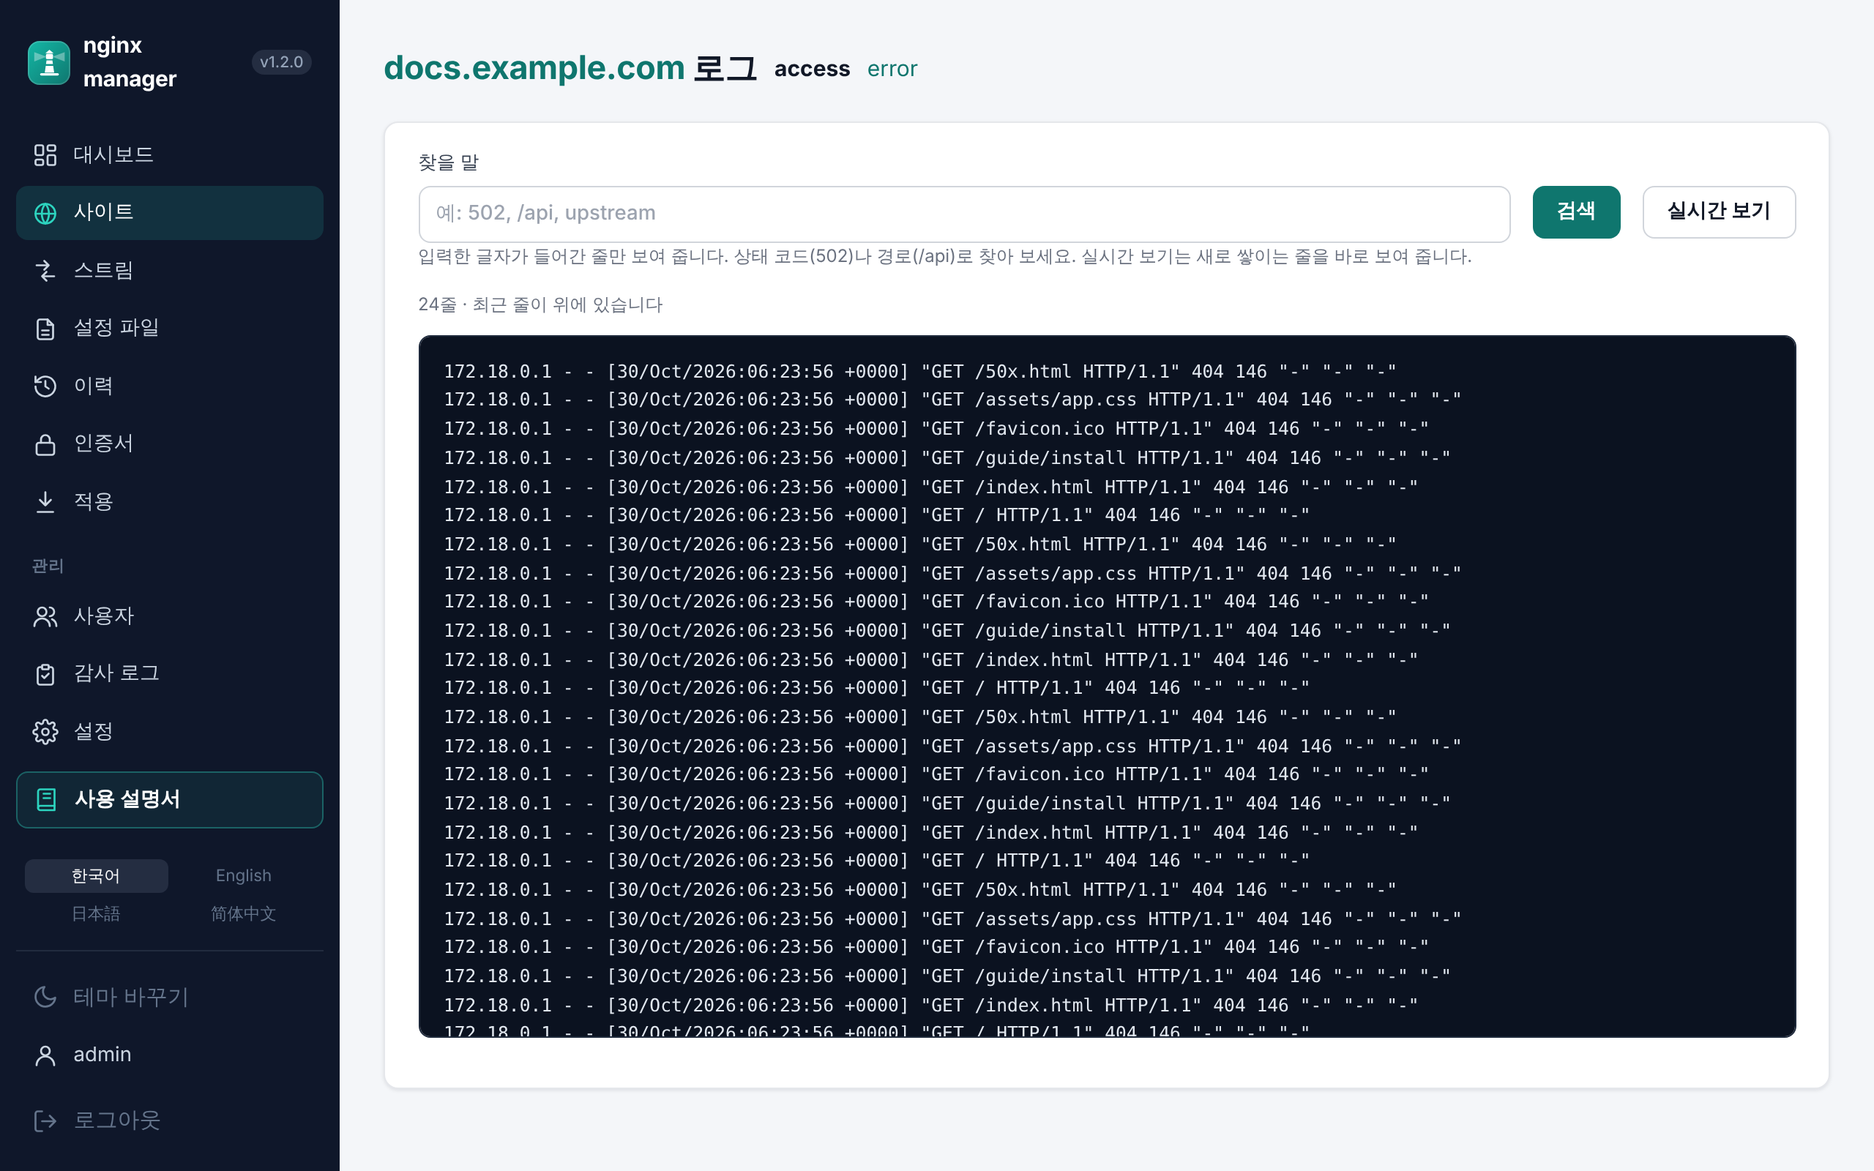
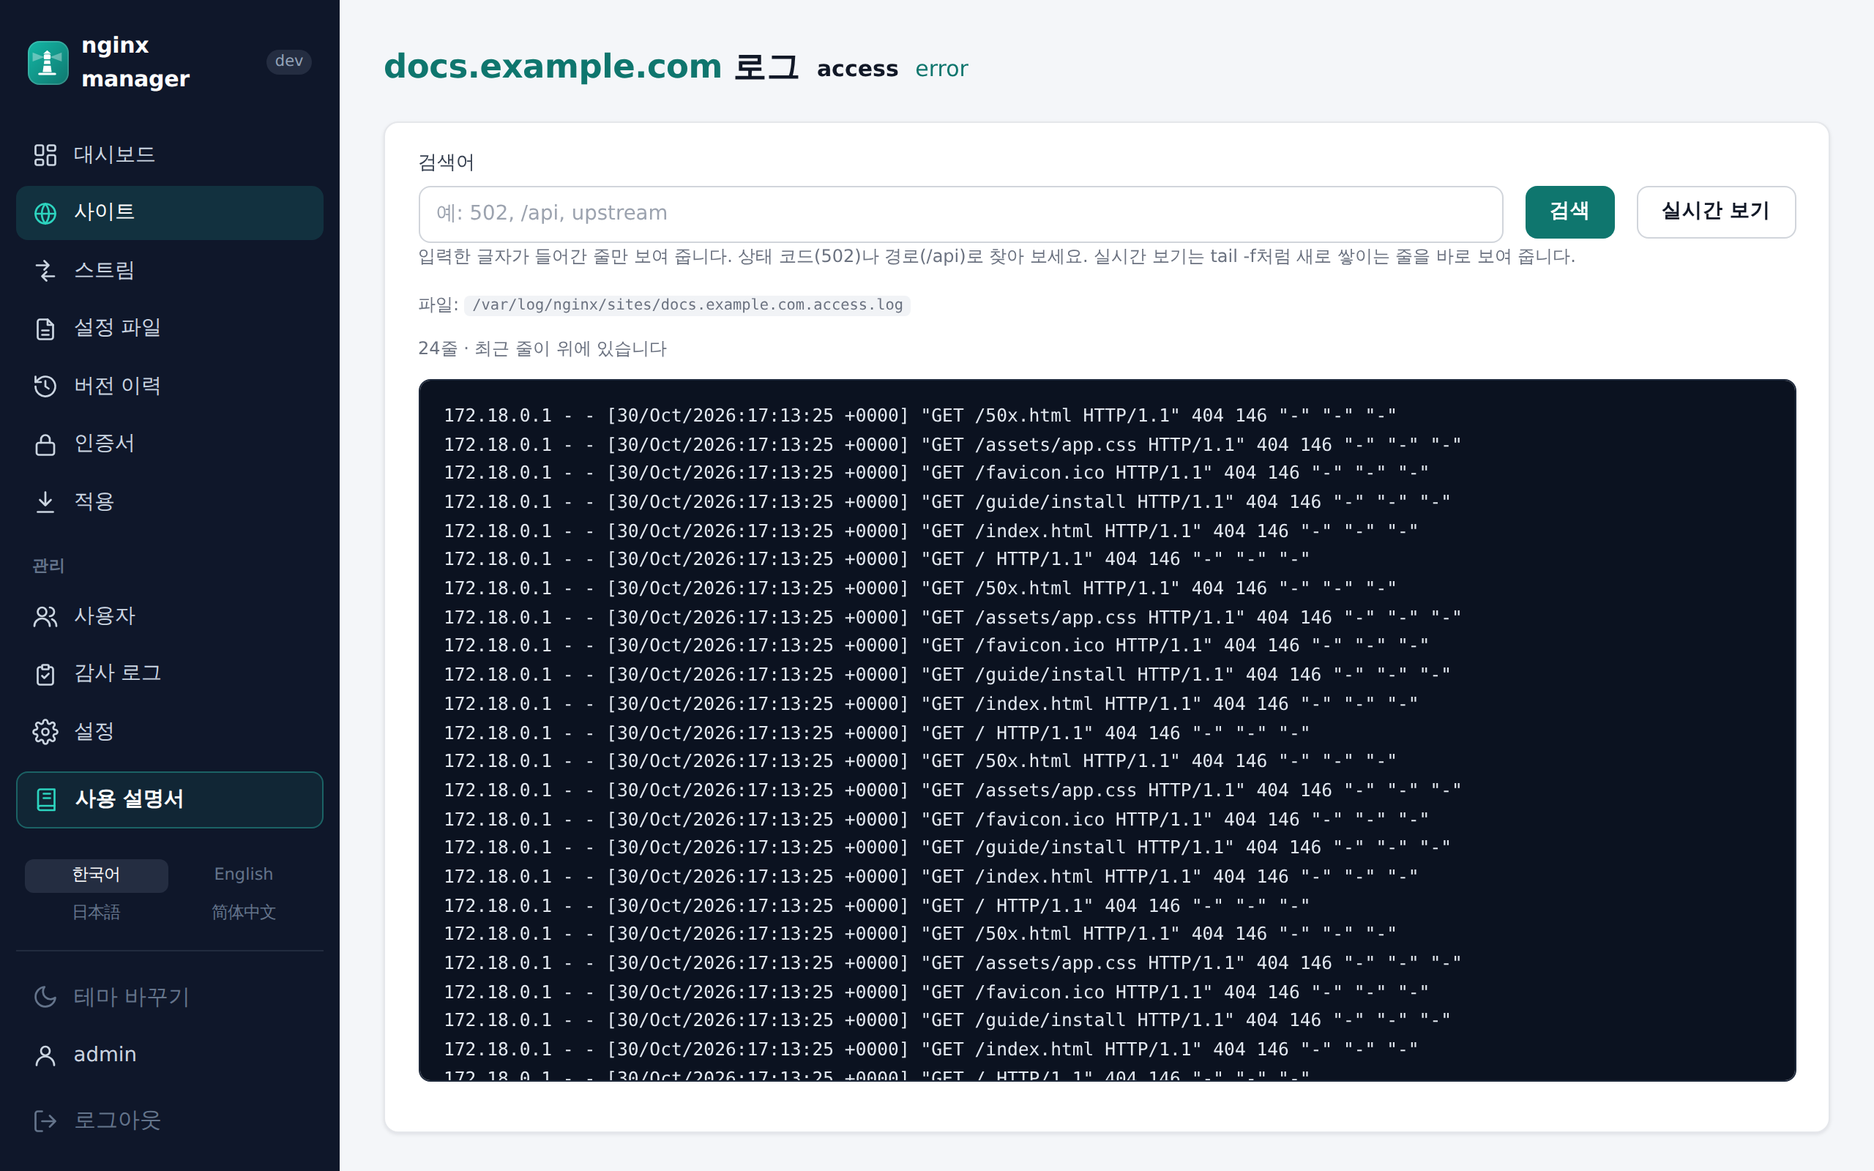
조직 소개: v1.4.0 2단계 인증, PHP·gRPC·외부 인증, 자동 백업, 용어 정리와 새 화면
Claude-Session: https://claude.ai/code/session_01Xx9UjnVyTKsCfGxjo3iS9Q

diff --git a/profile/README.ja.md b/profile/README.ja.md
@@ -38,7 +38,7 @@ nginx と管理画面を 2 つのコンテナで動かす Web ベースの nginx
 | 履歴 | バックアップファイルを自分で管理 | 適用のたびに**バージョン**が残り、比較・ロールバックが可能。サーバーで直接変更されたファイルも検出 |
 | HTTPS | certbot のインストールと更新スケジュール | サイトで HTTPS を選ぶと **Let's Encrypt の発行・適用・更新**まで自動 |
 | ログ | サーバーに入って `tail` | サイトごとの access/error ログを**画面で検索・リアルタイム表示** |
-| 権限 | サーバーアカウントを共有 | 管理者とメンバーのロール。メンバーは**担当サイトだけ**を管理し、**すべての変更は監査ログ**に記録 |
+| 権限 | サーバーアカウントを共有 | 管理者とメンバーのロール。メンバーは**担当サイトだけ**を管理し、**すべての変更は監査ログ**に記録。ログインに**2 段階認証(TOTP)** |
 
 ## サーバーにインストール
 
@@ -72,6 +72,7 @@ curl -fsSL https://github.com/nginx-manager/app/releases/latest/download/install
 | `NGINX_HTTP_PORT`, `NGINX_HTTPS_PORT` | `80`, `443` | 前段のプロキシがあり 80/443 を使えないとき |
 | `NGINX_BIND_ADDRESS` | `0.0.0.0` | nginx を特定の IP だけで開くとき |
 | `NGINX_MANAGER_BACKUP_KEEP` | `14` | `nm backup` の保存数 |
+| `NGINX_MANAGER_BACKUP_AT` | `03:30` | 毎日の自動バックアップの時刻。`off` で無効。変更後に `sudo ./nm backup-schedule` |
 | `TZ` | `Asia/Seoul` | タイムゾーン |
 | `NGINX_MANAGER_IMPORT_ROOTS` | 空 | `/etc/nginx` の外にある設定ファイルを取り込むとき |
 | `SPRING_MAIL_*` | 空 | メール通知に使う SMTP サーバー |
@@ -84,7 +85,9 @@ cd /opt/nginx-manager
 ./nm restart           # .env を編集した後の再起動
 ./nm upgrade           # 管理画面だけを新しいバージョンに(nginx はトラフィックを受け続けます)
 ./nm upgrade --nginx   # nginx も新しいバージョンに(新しい nginx で先に設定を検証し、数秒で再起動)
-./nm backup            # 設定とデータベースのバックアップ
+./nm backup            # 設定とデータベースのバックアップ(毎日 03:30 にも自動実行)
+./nm backup-schedule   # .env に合わせて自動バックアップを設定し直す
+./nm reset-2fa <ユーザー> # スマートフォンをなくした管理者の 2 段階認証を解除
 ./nm restore backups/<ファイル>
 ./nm migrate           # v1.0・v1.1 からの移行(先に --no-start でインストール)
 ./nm import-root check # 取り込むディレクトリを読めるか確認(読めなければ grant で読み取り権限)
@@ -96,13 +99,13 @@ cd /opt/nginx-manager
 
 ### フォームでサイトを作成
 
-複数のバックエンド(負荷分散)、WebSocket、タイムアウト、リダイレクト、HTTP/3 までフォームで設定し、生成される nginx 設定を横ですぐに確認できます。フォームで表せない設定は、nginx 構文ハイライト付きの原文エディターで編集します。使わなくなったサイトは削除でき、削除も下書き → 適用を経ます(v1.3.0)。
+複数のバックエンド(負荷分散)、WebSocket、タイムアウト、リダイレクト、HTTP/3 までフォームで設定し、生成される nginx 設定を横ですぐに確認できます。PHP(PHP-FPM)サイトと gRPC プロキシ(`grpc://`)もフォームで作成でき、oauth2-proxy・Authelia のような外部認証サーバー(auth_request)をサイトの前に置けます(v1.4.0)。フォームで表せない設定は、nginx 構文ハイライト付きの Raw エディタで編集します。使わなくなったサイトは削除でき、削除も適用待ち → 適用を経ます。
 
 <p align="center"><img src="images/site-form.png" alt="サイト追加フォームと設定プレビュー" width="860" /></p>
 
 ### 既存の設定ファイルを取り込む
 
-`/home/*/nginx/*.conf` のようなパスパターンを登録すると、一致するファイルをすべて見つけて一度にサイトとして登録します。フォームに移せるものはフォームサイト、それ以外は原文のまま登録し、元のファイルが変わると知らせます。
+`/home/*/nginx/*.conf` のようなパスパターンを登録すると、一致するファイルをすべて見つけて一度にサイトとして登録します。フォームに移せるものはフォームサイト、それ以外は Raw サイトとして登録し、元のファイルが変わると知らせます。
 
 <p align="center"><img src="images/import-scan.png" alt="設定ファイルの取り込み" width="860" /></p>
 
@@ -114,7 +117,7 @@ cd /opt/nginx-manager
 
 ### 確認してから適用
 
-保存した下書きはファイルごとの diff で確認してから反映します。検証・reload・状態確認のどれかが失敗すると、直前の設定に戻ります。
+保存した変更は適用待ちになり、ファイルごとの diff で確認してから反映します。`nginx -t`・reload・ヘルスチェックのどれかが失敗すると、直前の設定に自動ロールバックします。
 
 <p align="center"><img src="images/apply-diff.png" alt="適用前の変更内容" width="860" /></p>
 
@@ -126,15 +129,19 @@ cd /opt/nginx-manager
 
 ### HTTPS 証明書
 
-Let's Encrypt 証明書を自動で取得し、期限切れ前に更新します。更新に失敗するとメールや Webhook で知らせます。ワイルドカード証明書や社内証明書はアップロードできます。 設定ファイルの取り込みで入れた直接編集サイトも証明書を取得し、443 の server ブロックと 80→443 リダイレクトを下書きに加えられます(v1.2.3)。
+Let's Encrypt 証明書を自動で取得し、期限切れ前に更新します。更新に失敗するとメールや Webhook で知らせます。ワイルドカード証明書や社内証明書はアップロードできます。 設定ファイルの取り込みで入れた Raw サイトも証明書を発行し、443 の server ブロックと 80→443 リダイレクトを適用待ちに加えられます。
 
 <p align="center"><img src="images/certs.png" alt="証明書一覧" width="860" /></p>
 
 ### ログ
 
-サイトごとの access/error ログを検索したり、リアルタイムで表示したりできます。取り込んだ直接編集サイトのログや、ローテーションされた過去のログも読めます(v1.3.0)。
+サイトごとの access/error ログを検索したり、リアルタイムで表示したりできます。取り込んだ Raw サイトのログや、ローテートされた過去のログも読めます。
 
 <p align="center"><img src="images/logs.png" alt="サイトのログ表示" width="860" /></p>
+
+### ログイン保護と自動バックアップ
+
+アカウント画面で認証アプリ(TOTP)の 2 段階認証を有効にすると、パスワードの後に 6 桁のコードが必要になります。スマートフォンをなくしたら、リカバリーコード、管理者による解除、サーバーの `nm reset-2fa` で解除します。サーバーは毎日自動でバックアップし、ダッシュボードで最後のバックアップと失敗を確認できます(v1.4.0)。
 
 ### 4 言語とダークモード
 

diff --git a/profile/README.en.md b/profile/README.en.md
@@ -38,7 +38,7 @@ A web-based nginx manager that runs nginx and its admin UI as two containers
 | History | Keep backup files yourself | Every apply is saved as a **version** you can compare and roll back to; files changed directly on the server are detected |
 | HTTPS | Install certbot and schedule renewals | Turn on HTTPS for a site and **Let's Encrypt issuance, setup and renewal** happen automatically |
 | Logs | SSH in and `tail` | **Search and live-tail** each site's access/error logs in the browser |
-| Access | Shared server accounts | Admin and member roles, members manage **only their own sites**, and **every change is in the audit log** |
+| Access | Shared server accounts | Admin and member roles, members manage **only their own sites**, **every change is in the audit log**, and sign-in can use **two-factor authentication (TOTP)** |
 
 ## Install on a server
 
@@ -72,6 +72,7 @@ The installer creates `/opt/nginx-manager/.env`. After editing it, run `./nm res
 | `NGINX_HTTP_PORT`, `NGINX_HTTPS_PORT` | `80`, `443` | When a proxy in front already uses 80/443 |
 | `NGINX_BIND_ADDRESS` | `0.0.0.0` | To serve nginx on one IP only |
 | `NGINX_MANAGER_BACKUP_KEEP` | `14` | Number of `nm backup` files to keep |
+| `NGINX_MANAGER_BACKUP_AT` | `03:30` | Time of the daily automatic backup. `off` turns it off. Run `sudo ./nm backup-schedule` after changing it |
 | `TZ` | `Asia/Seoul` | Time zone |
 | `NGINX_MANAGER_IMPORT_ROOTS` | Empty | To import config files from outside `/etc/nginx` |
 | `SPRING_MAIL_*` | Empty | SMTP server for email alerts |
@@ -84,7 +85,9 @@ cd /opt/nginx-manager
 ./nm restart           # restart after editing .env
 ./nm upgrade           # upgrade the admin UI only (nginx keeps serving traffic)
 ./nm upgrade --nginx   # upgrade nginx too (config is validated with the new nginx first; restarts in seconds)
-./nm backup            # back up config and database
+./nm backup            # back up config and database (also runs daily at 03:30)
+./nm backup-schedule   # reinstall the automatic backup schedule from .env
+./nm reset-2fa <user>  # turn off two-factor sign-in for an admin who lost their phone
 ./nm restore backups/<file>
 ./nm migrate           # move over from v1.0/v1.1 (install with --no-start first)
 ./nm import-root check # check the import directory is readable (grant gives read access if not)
@@ -96,13 +99,13 @@ Details are in [chapter 1 of the user guide, Installation](https://github.com/ng
 
 ### Sites from a form
 
-Set multiple backends (load balancing), WebSocket, timeouts, redirects and even HTTP/3 in a form, and see the generated nginx config right beside it. Anything the form doesn't cover can be edited in the raw editor with nginx syntax highlighting. Delete sites you no longer need; deletion is also a draft you apply (v1.3.0).
+Set multiple backends (load balancing), WebSocket, timeouts, redirects and even HTTP/3 in a form, and see the generated nginx config right beside it. PHP (PHP-FPM) sites and gRPC proxies (`grpc://`) come from the form too, and an external auth server (auth_request) such as oauth2-proxy or Authelia can guard a site (v1.4.0). Anything the form doesn't cover can be edited in the Raw editor with nginx syntax highlighting. Delete sites you no longer need; deletion is also a pending change you apply.
 
 <p align="center"><img src="images/site-form.png" alt="Site form with config preview" width="860" /></p>
 
 ### Import existing config files
 
-Register a path pattern such as `/home/*/nginx/*.conf` and every matching file is found and registered as a site in one go. Files that fit the form become form sites; the rest are kept as raw sites. You're told when an original file changes.
+Register a path pattern such as `/home/*/nginx/*.conf` and every matching file is found and registered as a site in one go. Files that fit the form become form sites; the rest become Raw sites. You're told when an original file changes.
 
 <p align="center"><img src="images/import-scan.png" alt="Importing config files" width="860" /></p>
 
@@ -114,7 +117,7 @@ Forward non-HTTP services such as databases or MQTT by port.
 
 ### Review, then apply
 
-Saved drafts are reviewed as per-file diffs before they go live. If validation, reload or the health check fails, the previous config comes back.
+Saved changes wait as pending changes and are reviewed as per-file diffs before they go live. If `nginx -t`, reload or the health check fails, the previous config is rolled back automatically.
 
 <p align="center"><img src="images/apply-diff.png" alt="Changes before applying" width="860" /></p>
 
@@ -126,15 +129,19 @@ Every apply is saved as a version. Compare any two versions or roll back to an e
 
 ### HTTPS certificates
 
-Let's Encrypt certificates are issued automatically and renewed before they expire. If a renewal fails, you're alerted by email or webhook. Wildcard and internal certificates can be uploaded. Imported raw-config sites can get a certificate too, with a 443 server block and an 80→443 redirect added as a draft (v1.2.3).
+Let's Encrypt certificates are issued automatically and renewed before they expire. If a renewal fails, you're alerted by email or webhook. Wildcard and internal certificates can be uploaded. Imported Raw sites can get a certificate too, with a 443 server block and an 80→443 redirect added as pending changes.
 
 <p align="center"><img src="images/certs.png" alt="Certificate list" width="860" /></p>
 
 ### Logs
 
-Search or live-tail each site's access/error logs. Imported raw-config sites and rotated older log files can be read too (v1.3.0).
+Search or live-tail each site's access/error logs. Imported Raw sites and rotated older log files can be read too.
 
 <p align="center"><img src="images/logs.png" alt="Viewing site logs" width="860" /></p>
+
+### Sign-in protection and automatic backups
+
+Turn on two-factor authentication with an authenticator app (TOTP) in your account, and a 6-digit code is required after the password. If a phone is lost, use a recovery code, an admin reset, or `nm reset-2fa` on the server. The server also backs itself up every day, and the dashboard shows the last backup and any failure (v1.4.0).
 
 ### Four languages and dark mode
 

diff --git a/profile/README.zh-CN.md b/profile/README.zh-CN.md
@@ -38,7 +38,7 @@
 | 历史 | 自己管理备份文件 | 每次应用都会留下**版本**，可比较、可回滚，并能发现在服务器上被直接修改的文件 |
 | HTTPS | 安装 certbot 并安排续期 | 为站点选择 HTTPS 后，**Let's Encrypt 签发、配置和续期**全部自动完成 |
 | 日志 | 登录服务器 `tail` | 在**界面上搜索、实时查看**每个站点的 access/error 日志 |
-| 权限 | 共用服务器账号 | 管理员和成员两种角色，成员**只管理自己负责的站点**，**所有变更都记入审计日志** |
+| 权限 | 共用服务器账号 | 管理员和成员两种角色，成员**只管理自己负责的站点**，**所有变更都记入审计日志**，登录可开启**两步验证（TOTP）** |
 
 ## 在服务器上安装
 
@@ -72,6 +72,7 @@ curl -fsSL https://github.com/nginx-manager/app/releases/latest/download/install
 | `NGINX_HTTP_PORT`, `NGINX_HTTPS_PORT` | `80`, `443` | 前面已有代理占用 80/443 时 |
 | `NGINX_BIND_ADDRESS` | `0.0.0.0` | 只让 nginx 监听某个 IP 时 |
 | `NGINX_MANAGER_BACKUP_KEEP` | `14` | `nm backup` 保留的份数 |
+| `NGINX_MANAGER_BACKUP_AT` | `03:30` | 每日自动备份的时间。设为 `off` 则关闭。修改后运行 `sudo ./nm backup-schedule` |
 | `TZ` | `Asia/Seoul` | 时区 |
 | `NGINX_MANAGER_IMPORT_ROOTS` | 空 | 导入 `/etc/nginx` 之外的配置文件时 |
 | `SPRING_MAIL_*` | 空 | 邮件通知使用的 SMTP 服务器 |
@@ -84,7 +85,9 @@ cd /opt/nginx-manager
 ./nm restart           # 修改 .env 后重新启动
 ./nm upgrade           # 只升级管理界面（nginx 继续处理流量）
 ./nm upgrade --nginx   # 同时升级 nginx（先用新 nginx 校验配置，几秒内重启）
-./nm backup            # 备份配置和数据库
+./nm backup            # 备份配置和数据库（每天 03:30 也会自动运行）
+./nm backup-schedule   # 按 .env 重新安装自动备份计划
+./nm reset-2fa <用户>  # 为丢失手机的管理员关闭两步验证
 ./nm restore backups/<文件>
 ./nm migrate           # 从 v1.0/v1.1 迁移（先用 --no-start 安装）
 ./nm import-root check # 检查导入目录是否可读（不可读时用 grant 授予读权限）
@@ -96,13 +99,13 @@ cd /opt/nginx-manager
 
 ### 用表单创建站点
 
-多个后端（负载均衡）、WebSocket、超时、重定向乃至 HTTP/3 都能在表单里设置，旁边即时显示生成的 nginx 配置。表单覆盖不到的配置，可在带 nginx 语法高亮的原文编辑器中修改。不再使用的站点可以删除，删除同样经过草稿 → 应用（v1.3.0）。
+多个后端（负载均衡）、WebSocket、超时、重定向乃至 HTTP/3 都能在表单里设置，旁边即时显示生成的 nginx 配置。PHP（PHP-FPM）站点和 gRPC 代理（`grpc://`）也能用表单创建，还可以在站点前放置 oauth2-proxy、Authelia 等外部认证服务器（auth_request）（v1.4.0）。表单覆盖不到的配置，可在带 nginx 语法高亮的 Raw 编辑器中修改。不再使用的站点可以删除，删除同样经过待应用 → 应用。
 
 <p align="center"><img src="images/site-form.png" alt="添加站点表单与配置预览" width="860" /></p>
 
 ### 导入已有配置文件
 
-登记 `/home/*/nginx/*.conf` 这样的路径模式后，会找出所有匹配的文件并一次性登记为站点。能转成表单的成为表单站点，其余按原文登记；原文件变化时会提醒你。
+登记 `/home/*/nginx/*.conf` 这样的路径模式后，会找出所有匹配的文件并一次性登记为站点。能转成表单的成为表单站点，其余登记为 Raw 站点；原文件变化时会提醒你。
 
 <p align="center"><img src="images/import-scan.png" alt="导入配置文件" width="860" /></p>
 
@@ -114,7 +117,7 @@ cd /opt/nginx-manager
 
 ### 先确认再应用
 
-保存的草稿先按文件查看 diff 再生效。校验、reload、状态检查中任一步失败，都会回到上一份配置。
+保存的变更进入待应用状态，先按文件查看 diff 再生效。`nginx -t`、reload、健康检查中任一步失败，都会自动回滚到上一份配置。
 
 <p align="center"><img src="images/apply-diff.png" alt="应用前的变更内容" width="860" /></p>
 
@@ -126,15 +129,19 @@ cd /opt/nginx-manager
 
 ### HTTPS 证书
 
-自动申请 Let's Encrypt 证书并在到期前续期。续期失败时通过邮件或 Webhook 通知。通配符证书和内部证书可以上传。通过导入配置文件加入的原文编辑站点也能申请证书，并以草稿形式加入 443 server 块和 80→443 跳转（v1.2.3）。
+自动申请 Let's Encrypt 证书并在到期前续期。续期失败时通过邮件或 Webhook 通知。通配符证书和内部证书可以上传。通过导入配置文件加入的 Raw 站点也能签发证书，并以待应用形式加入 443 server 块和 80→443 重定向。
 
 <p align="center"><img src="images/certs.png" alt="证书列表" width="860" /></p>
 
 ### 日志
 
-搜索或实时查看每个站点的 access/error 日志。也能读取导入的原文编辑站点的日志和轮转后的历史日志（v1.3.0）。
+搜索或实时查看每个站点的 access/error 日志。也能读取导入的 Raw 站点的日志和轮转后的历史日志。
 
 <p align="center"><img src="images/logs.png" alt="查看站点日志" width="860" /></p>
+
+### 登录保护与自动备份
+
+在账户页面开启认证器应用（TOTP）两步验证后，输入密码后还需输入 6 位验证码。手机丢失时，可用恢复码、由管理员解除，或在服务器上运行 `nm reset-2fa`。服务器每天自动备份，仪表盘会显示最近一次备份和失败情况（v1.4.0）。
 
 ### 四种语言和深色模式
 
